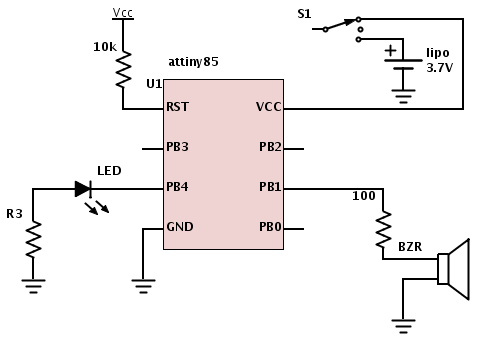
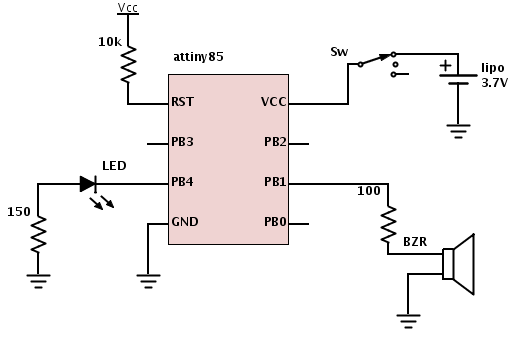
fixed schematic

Changed region(s): [[0.0, 0.0, 0.9979, 0.9763], [0.6457, 0.1183, 0.6751, 0.1775], [0.6164, 0.0296, 0.6457, 0.0592]]

diff --git a/README.md b/README.md
@@ -32,6 +32,9 @@ like my Tenergy TB6AC.
 ### Board
 Video:
 http://www.youtube.com/watch?v=me5pYO3vPPQ
-![schematic](https://raw.github.com/tacowars/watch-my-back/master/docs/schematic.png)
-![board_top](https://raw.github.com/tacowars/watch-my-back/master/docs/DSC_0119.jpg)
-![board_bottom](https://raw.github.com/tacowars/watch-my-back/master/docs/DSC_0120.jpg)
+
+![schematic](https://raw.github.com/tacowars/watch-my-back/master/docs/schematic.png "Schematic")
+
+![board_top](https://raw.github.com/tacowars/watch-my-back/master/docs/DSC_0119.jpg "Top")
+
+![board_bottom](https://raw.github.com/tacowars/watch-my-back/master/docs/DSC_0120.jpg "Bottom")
